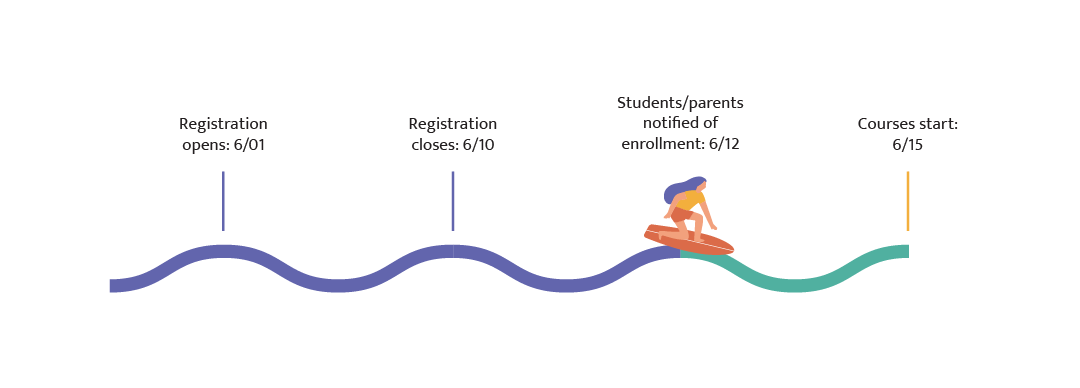
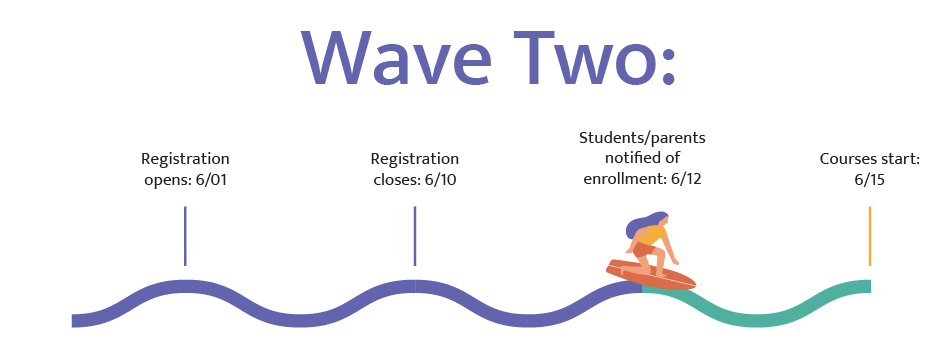
changed progress bar to 6/12 date

diff --git a/src/pages/Courses_W2/index.js b/src/pages/Courses_W2/index.js
@@ -46,7 +46,7 @@ const Courses = () => {
         <ContainerInner>
 
 	<div class="progressbar">
-   	 <img src= {ProgressWithTitle} alt = "centered image" />
+   	 <img src= {ProgressBar3} alt = "centered image" />
 	</div>
 		
           <p>
